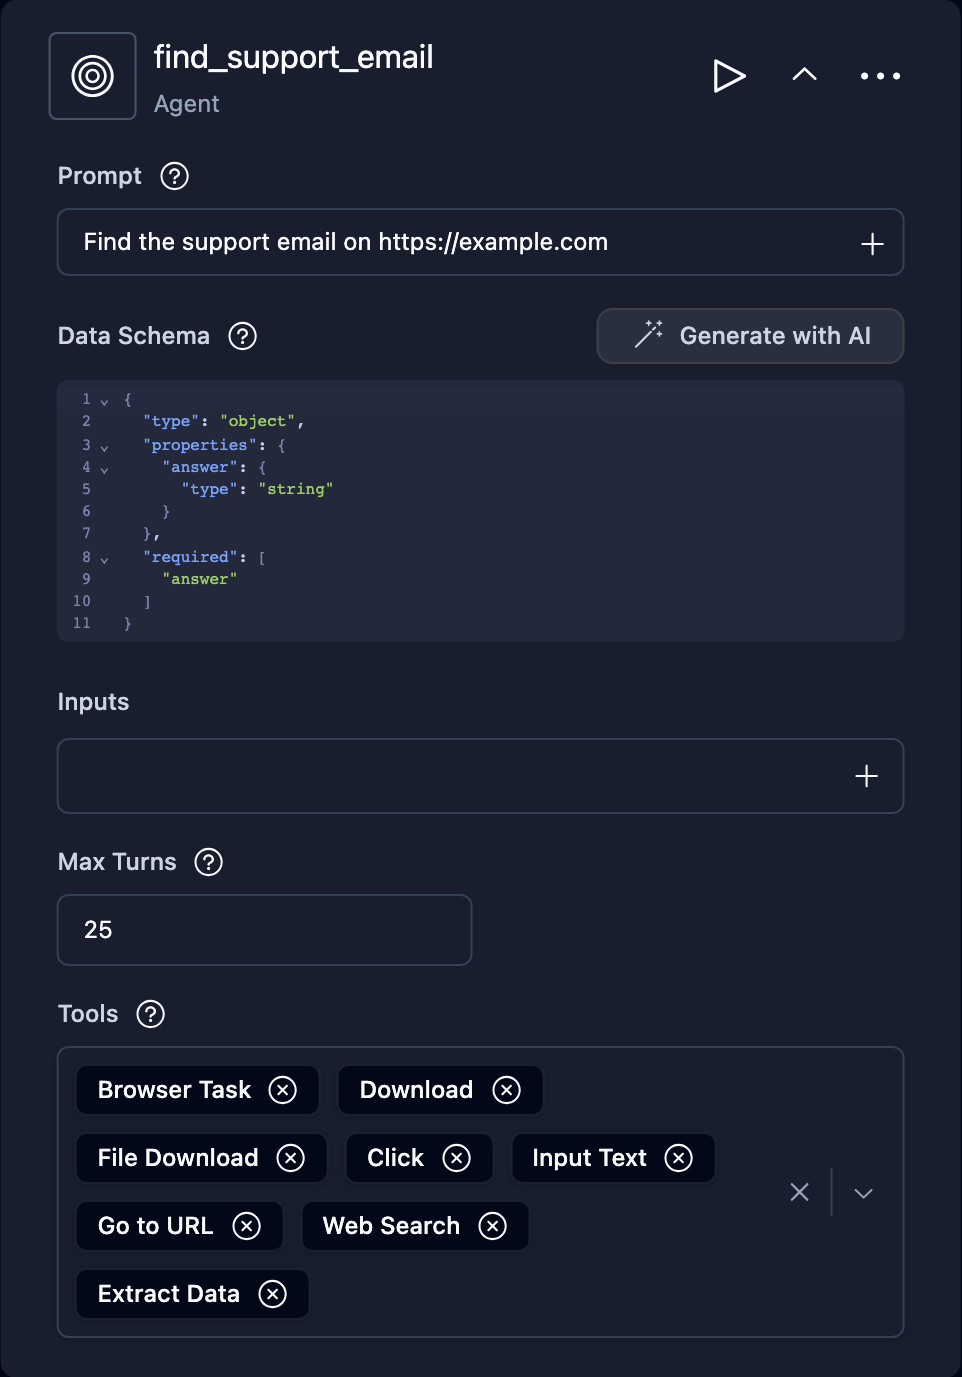
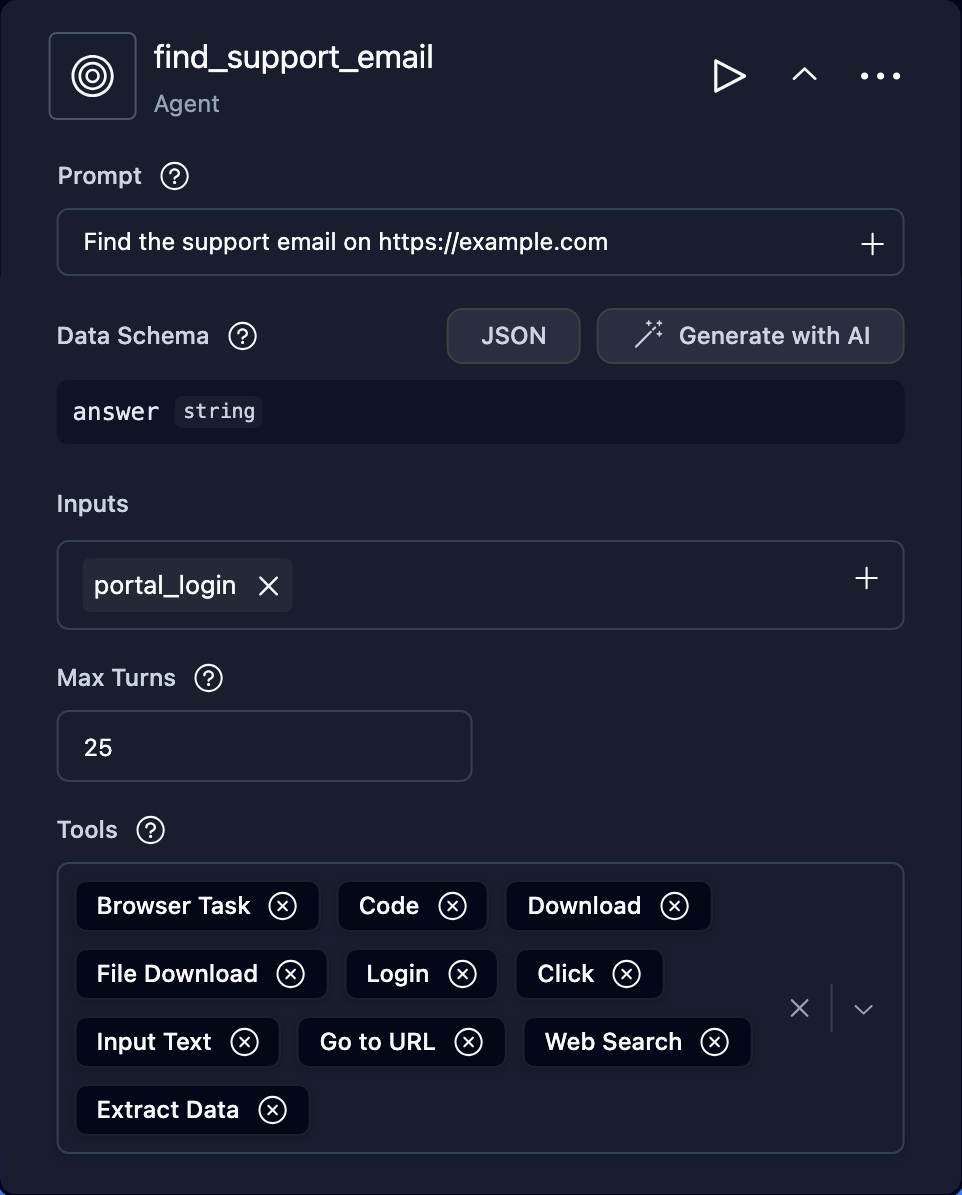
🔄 synced local 'docs/' with remote 'docs/'
Sync PR: 21541
Sync SHA: e7364bb9821eae2eafa932e7b560b7e1515b421b

diff --git a/docs/posthog-analytics.js b/docs/posthog-analytics.js
@@ -382,7 +382,9 @@
         var normalized = path === "/" ? path : path.replace(/\/$/, "");
         if (
           PUBLIC_PATHS.has(normalized) ||
-          /^\/blog\/(?!preview\/?$)[a-z0-9]+(?:-[a-z0-9]+)*\/?$/.test(path)
+          /^\/(?:blog\/(?!preview\/?$)|integrations\/)[a-z0-9]+(?:-[a-z0-9]+)*\/?$/.test(
+            path,
+          )
         ) {
           return path;
         }
